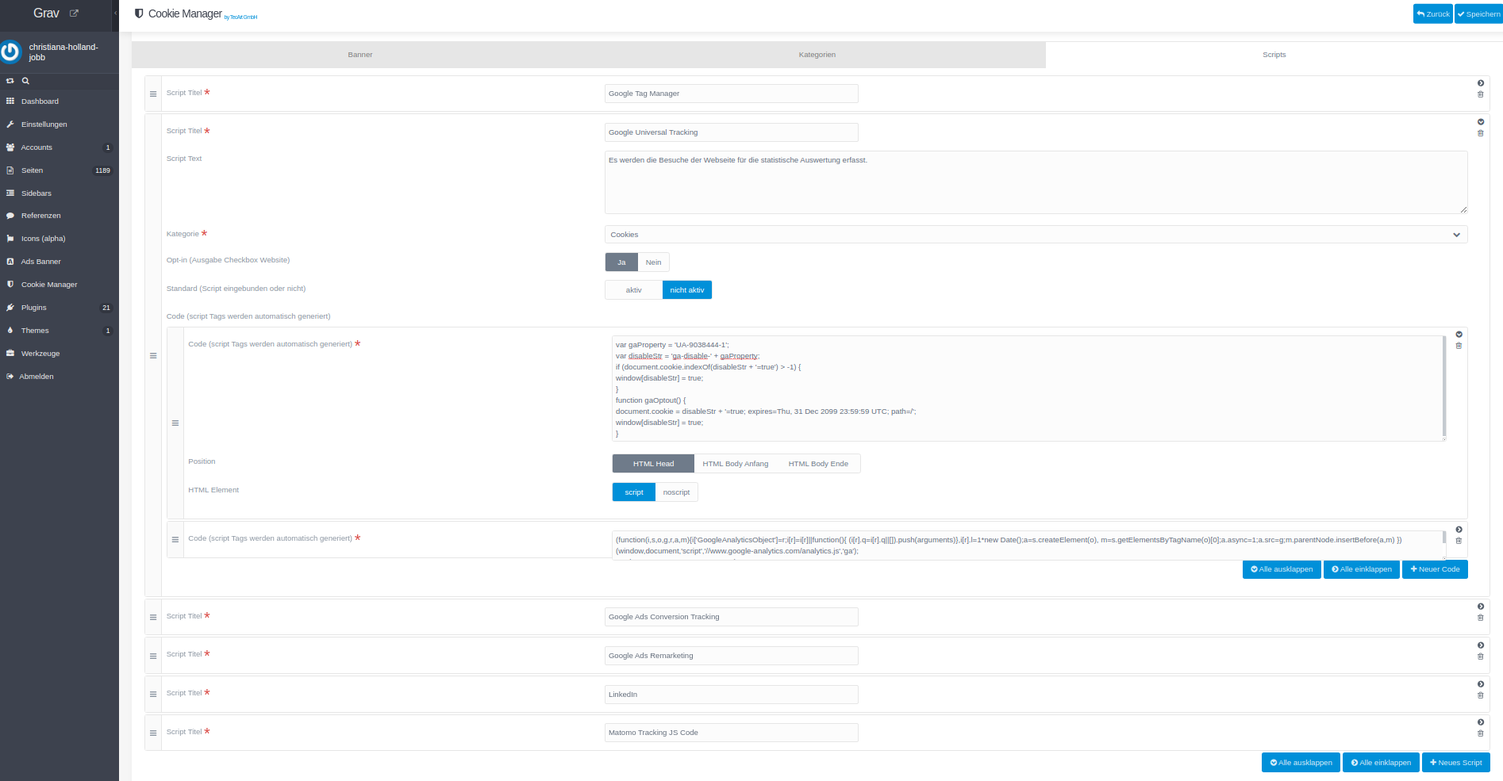
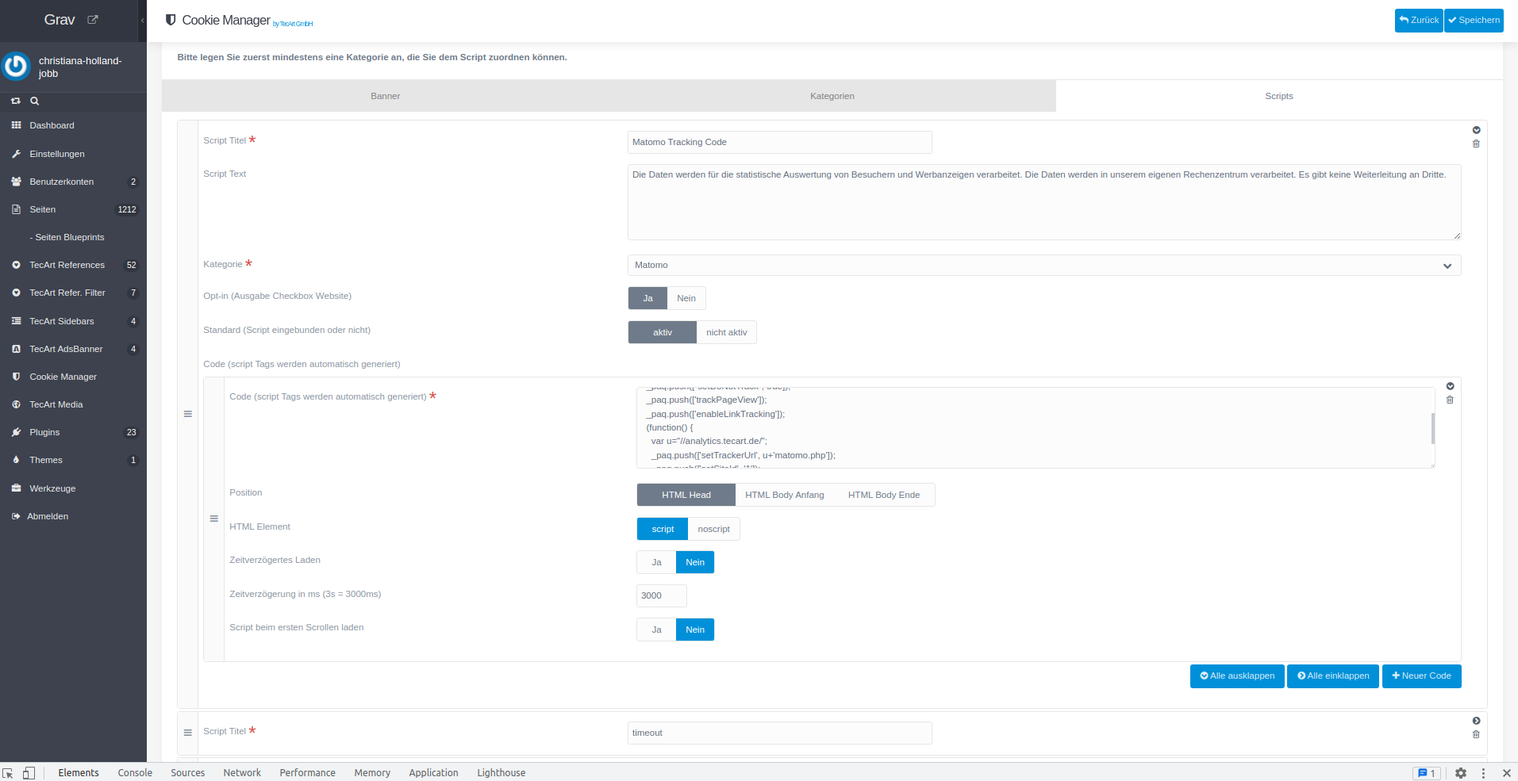
add include on scroll and/or include with delay option for scripts

diff --git a/assets/js/tecart-cookie-manager.min.js b/assets/js/tecart-cookie-manager.min.js
@@ -1,1 +1,1 @@
-class TecartCookieBanner{constructor(e,t,o,i){this.cookieBannerData=e,this.cookieBannerScripts=t,this.cookieBannerCategories=o,this.cookieBannerCategoriesData=i,null==this.cookieBannerScripts&&(this.cookieBannerScripts=[]),null==this.cookieBannerCategories&&(this.cookieBannerCategories=[]),null==this.cookieBannerCategoriesData&&(this.cookieBannerCategoriesData=[]),null==this.cookieConsentCategoriesArray&&(this.cookieConsentCategoriesArray=new Map),null==this.cookieConsentScriptsArray&&(this.cookieConsentScriptsArray=new Map),this.cookieConsent=this.getCookieByName("cookieconsent_status"),this.cookieConsentScripts=this.getCookieByName("cookieconsent_scripts"),this.cookieConsentCategories=this.getCookieByName("cookieconsent_categories")}init(){let e="";"activated"==this.getCookieBannerContent(this.cookieBannerData).buttonSettingsActive&&(e='<a aria-label="settings" role="button" tabIndex="0" class="button cc-btn cc-setting tcb-settings-btn '+this.getCookieBannerContent(this.cookieBannerData).buttonSettingsLayout+'" id="tcb-settings">'+this.getCookieBannerContent(this.cookieBannerData).settings+"</a>");let t="";"activated"==this.getCookieBannerContent(this.cookieBannerData).buttonDenyActive&&(t='<a aria-label="deny cookies" role="button" tabIndex="0" class="button cc-btn cc-deny '+this.getCookieBannerContent(this.cookieBannerData).buttonDenyLayout+'">'+this.getCookieBannerContent(this.cookieBannerData).deny+"</a>");const o={position:"bottom-left",type:"opt-in",palette:{popup:{background:"#f6f9fc",text:"#1e2022",border:"#1e2022"},button:{background:"#fff",text:"#5a5f69",border:"#5a5f69"}},layout:"tecart-cookie-banner",layouts:{"tecart-cookie-banner":'<div id="tecart-cookie-banner"><div class="cc-header">'+this.getCookieBannerContent(this.cookieBannerData).header+'</div><div id="cookieconsent:desc" class="cc-message">'+this.getCookieBannerContent(this.cookieBannerData).message+'</div><div class="cc-compliance cc-highlight"><a aria-label="allow cookies" role="button" tabIndex="0" class="button cc-btn cc-allow '+this.getCookieBannerContent(this.cookieBannerData).buttonAcceptLayout+'">'+this.getCookieBannerContent(this.cookieBannerData).allow+"</a>"+e+t+"</div></div>"},revokable:!0,animateRevokable:!0,revokeBtn:'<div class="cc-revoke cc-bottom cc-left cc-animate cc-revoke-from-plugin" style="color: '+this.getCookieBannerContent(this.cookieBannerData).buttonRevokableTextColor+"; background-color: "+this.getCookieBannerContent(this.cookieBannerData).buttonRevokableColor+"; border-color: "+this.getCookieBannerContent(this.cookieBannerData).buttonRevokableColor+';">'+this.getCookieBannerContent(this.cookieBannerData).revoke+"</div>",onStatusChange:function(e,t){const o=this.hasConsented(),i=new TecartCookieBanner(this.cookieBannerData,this.cookieBannerScripts,this.cookieBannerCategories);o?i.allowAllCookies():!1===o?i.denyAllCookies():i.allowSettingsCookies()},onRevokeChoice:function(e){}};window.cookieconsent.initialise(o),"dismiss"===this.cookieConsent?this.createScriptCode(this.cookieConsentScripts):(this.setCookieConsentCategoriesArray(),this.setCookieConsentScriptsArray()),this.removeSettingsModal(),this.createSettingsModal(this.cookieConsent)}allowAllCookies(){const e=this.cookieExpireDate();document.cookie="cookieconsent_status=allow;"+e+";path=/",console.log("All scripts for this website have been activated in this browser."),window.location.reload()}denyAllCookies(){this.deleteAllCookies(),this.removeCodeTags();const e=this.cookieExpireDate();document.cookie="cookieconsent_status=deny;"+e+";path=/",console.log("All scripts for this website have been deactivated in this browser."),window.location.reload()}allowSettingsCookies(){const e=this.cookieExpireDate();document.cookie="cookieconsent_status=dismiss;"+e+";path=/",console.log("All scripts for this website have set like in settings in this browser.")}setConsentCategoriesToCookie(e){e instanceof Map&&(e=Array.from(e));const t=this.cookieExpireDate(),o=JSON.stringify(e);document.cookie="cookieconsent_categories="+o+";"+t+";path=/"}setConsentScriptsToCookie(e){e instanceof Map&&(e=Array.from(e));const t=this.cookieExpireDate(),o=JSON.stringify(e);document.cookie="cookieconsent_scripts="+o+";"+t+";path=/"}cookieExpireDate(){const e=new Date;return e.setTime(e.getTime()+31536e6),"expires="+e.toUTCString()}deleteAllCookies(){const e=document.cookie.split("; ");for(let t=0;t<e.length;t++){const o=window.location.hostname.split(".");for(;o.length>0;){const i=encodeURIComponent(e[t].split(";")[0].split("=")[0])+"=; expires=Thu, 01-Jan-1970 00:00:01 GMT; domain="+o.join(".")+" ;path=",n=location.pathname.split("/");for(document.cookie=i+"/";n.length>0;)document.cookie=i+n.join("/"),n.pop();o.shift()}}window.localStorage.clear(),console.log("all cookies cleared")}getCookieByName(e){const t=document.cookie.match("(^|[^;]+)\\s*"+e+"\\s*=\\s*([^;]+)");return t?t.pop():""}deleteCookieByName(e){document.cookie=e+"=; Path=/; Expires=Thu, 01 Jan 1970 00:00:01 GMT;",console.log(e+" cookie deletetd")}setCookieConsentCategoriesArray(){let e;const t=this.cookieBannerCategories;if(t.length>0)for(let o=0;o<t.length;o++)"allow"===this.cookieConsent?(e=encodeURIComponent(t[o].category_title),this.cookieConsentCategoriesArray.set(e,{allowed:!0}),this.addScriptsFromAllowedCatToCookie(t[o].category_title)):"activated"===t[o].category_cookies&&(e=encodeURIComponent(t[o].category_title),this.cookieConsentCategoriesArray.set(e,{allowed:!0}),this.addScriptsFromAllowedCatToCookie(t[o].category_title));return this.setConsentCategoriesToCookie(this.cookieConsentCategoriesArray),this.cookieConsentCategoriesArray}setCookieConsentScriptsArray(){let e;const t=this.cookieBannerScripts;if(t.length>0)for(let o=0;o<t.length;o++)"allow"===this.cookieConsent?(e=encodeURIComponent(t[o].script_title),this.cookieConsentScriptsArray.set(e,{allowed:!0})):"activated"===t[o].script_cookies_standard&&(e=encodeURIComponent(t[o].script_title),this.cookieConsentScriptsArray.set(e,{allowed:!0}));this.setConsentScriptsToCookie(this.cookieConsentScriptsArray);const o=this.cookieConsentScriptsArray;this.createScriptCode(o)}addScriptsFromAllowedCatToCookie(e){const t=this.getElementByValue(this.cookieBannerScripts,"script_category",e);for(let e=0;e<t.length;e++){const o=encodeURIComponent(t[e].script_title);this.cookieConsentScriptsArray.set(o,{allowed:!0})}}createScriptCode(e){let t=[];null!==e&&(e instanceof Map&&(e=JSON.stringify(Array.from(e))),t=JSON.parse(e));const o=this.cookieBannerScripts;if(t.length>0&&o.length>0)for(let e=0;e<t.length;e++){const i=t[e][0],n=decodeURIComponent(i);if(o.length>0&&""!==n)for(let e=0;e<o.length;e++)if(o[e].script_title===n&&o[e].script_codes){const t=o[e].script_codes;for(let e=0;e<t.length;e++)this.createCodeTag(t[e],i,n)}}}createCodeTag(e,t,o){if(JSON.stringify(e).length>0){const i=e.code_title,n=e.code_position;let s="";"noscript"===e.code_tag?s=document.createElement("noscript"):(s=document.createElement("script")).setAttribute("type","text/javascript"),s.setAttribute("data-title",o.trim()),s.setAttribute("data-tcb",t),s.setAttribute("data-position",n),s.innerHTML=i.trim(),"head"===n?document.head.append(s):"body-top"===n?document.body.prepend(s):document.body.appendChild(s)}}removeCodeTagByTitle(e){if(""!==e){const t=document.querySelectorAll("[data-tcb]");for(const o in t)t.hasOwnProperty(o)&&t[o].getAttribute("data-tcb")===e&&t[o].remove()}}removeCodeTags(){const e=document.querySelectorAll("[data-tcb]");for(const t in e)e.hasOwnProperty(t)&&e[t].remove()}createSettingsModal(e=""){const t='<div id="tcb-settings-modal" class="tcb-settings-modal" style="display: none;"><div id="tcb-settings-close-btn">&times;</div><div class="tcb-settings-modal-header"><div class="cc-header">'+this.getCookieBannerContent(this.cookieBannerData).settingsTitle+'</div></div>\n<div class="tcb-settings-modal-content">'+this.createSettingsModalTabs(e)+"</div></div>";document.body.insertAdjacentHTML("beforeend",t)}removeSettingsModal(){const e=document.getElementById("tcb-settings-modal");null!==e&&e.remove()}createSettingsModalTabs(e=""){let t="",o="";const i=this.cookieBannerCategories;if(!(i.length>0))return this.getCookieBannerContent(this.cookieBannerData).settingsEmpty;for(let n=0;n<i.length;n++){this.cookieBannerScripts.length>0&&(o=this.createSettingsModalTabsScripts(i[n].category_title,e));const s=i[n].category_text?i[n].category_text:"",a=i[n].category_title?i[n].category_title:"",c=encodeURIComponent(a);let r="";"allow"===e?r="checked":this.cookieConsentCategories.length>0?!0===this.cookieConsentCategories.includes(c)&&(r="checked"):"activated"===i[n].category_cookies&&(r="checked");let l="";"activated"===i[n].category_cookies&&(l='<label class="tcb-switch tcb-categories-switch"><input type="checkbox" '+r+' id="cat_'+c+'" value="'+c+'"  name="tcbCookieCategories"  /><span class="tcb-slider tcb-round"></span></label>'),t+='<section id="section'+n+'"><input type="radio" name="sections" id="option'+n+'" '+(0===n?'checked=""':"")+' /><label for="option'+n+'">'+i[n].category_title+'</label><article><div class="tcb-tabs-cat-title"><p>'+a+"</p>"+l+"</div><p>"+s+"</p>"+o+"</article></section>"}let n="Save Settings";this.cookieBannerCategoriesData.categories_save_text&&(n=this.cookieBannerCategoriesData.categories_save_text);let s="layout-1";return this.cookieBannerCategoriesData.categories_save_layout&&(s=this.cookieBannerCategoriesData.categories_save_layout),'<div id="tcbSettings" class="tcb-catTabs">'+t+'</div><div class="tcb-saveSettings"><a id="tcb-save-settings-btn" aria-label="save settings" role="button" tabIndex="0" class="button cc-btn '+s+'">'+n+"</a></div>"}createSettingsModalTabsScripts(e="",t=""){let o="";if(""!==e&&this.cookieBannerScripts.length>0){const i=this.getElementByValue(this.cookieBannerScripts,"script_category",e);if(i.length>0){o+="<ul>";for(let e=0;e<i.length;e++){const n=i[e].script_title?i[e].script_title:"",s=encodeURIComponent(n);let a="";"allow"===t?a="checked":this.cookieConsentScripts.length>0?!0===this.cookieConsentScripts.includes(s)&&(a="checked"):"activated"===i[e].script_cookies_standard&&(a="checked");let c="",r="",l="tcbCookieScripts";"0"===i[e].script_cookies&&(c='disabled="disabled"',r="disabled",l="tcbDisabledCookieScripts"),o+='<li><div class="tcb-script-title">'+n+'</div><label class="tcb-switch tcb-script-switch '+r+'"><input type="checkbox" '+a+' id="script_'+s+'" value="'+s+'"  name="'+l+'" '+c+' /><span class="tcb-slider tcb-round"></span></label><div class="tcb-script-text">'+i[e].script_text+"</div></li>"}o+="</ul>"}}return o}onCheckboxSettings(){this.deleteCookieByName("cookieconsent_scripts"),this.deleteCookieByName("cookieconsent_categories"),this.deleteAllCookies();let e=[],t=[];if(this.cookieConsentScriptsArray=new Map,(e=Array.from(document.querySelectorAll("input[name=tcbCookieScripts]")).filter(e=>e.checked).map(e=>e.value)).length>0)for(let t=0;t<e.length;t++)this.cookieConsentScriptsArray.set(e[t],{allowed:!0});if((t=Array.from(document.querySelectorAll("input[name=tcbCookieCategories]")).filter(e=>e.checked).map(e=>e.value)).length>0)for(let e=0;e<t.length;e++)this.cookieConsentCategoriesArray.set(t[e],{allowed:!0}),this.addScriptsFromAllowedCatToCookie(decodeURIComponent(t[e]));this.setConsentCategoriesToCookie(this.cookieConsentCategoriesArray),this.setConsentScriptsToCookie(this.cookieConsentScriptsArray),this.allowSettingsCookies(),this.removeCodeTags();const o=this.cookieConsentScriptsArray;this.createScriptCode(o),window.location.reload()}getElementByValue(e,t,o){return e.filter(function(e){return e[t]===o})}getCookieBannerContent(e){const t={header:"Cookies used on the website!",allow:"Allow",deny:"Deny",denyActive:"activated",message:"This website uses cookies to ensure you get the best experience on our website.",settings:"Settings",settingsEmpty:"There are no settings available.",settingsActive:"activated",revoke:"Cookie Policy",buttonRevokableColor:"#7faf34",buttonRevokableTextColor:"#ffffff",settingsTitle:"Your personal settings"};return null!=e&&(e.banner_title&&(t.header=e.banner_title),e.button_deny_text&&(t.deny=e.button_deny_text),e.button_accept_text&&(t.allow=e.button_accept_text),e.banner_text&&(t.message=e.banner_text),e.button_settings_text&&(t.settings=e.button_settings_text),e.button_settings_empty&&(t.settingsEmpty=e.button_settings_empty),e.banner_revokable_text&&(t.revoke=e.banner_revokable_text),e.button_revokable_color&&(t.buttonRevokableColor=e.button_revokable_color),e.button_revokable_color&&(t.buttonRevokableTextColor=e.button_revokable_text_color),e.banner_cat_title&&(t.settingsTitle=e.banner_cat_title),t.buttonDenyLayout=e.button_deny_layout,t.buttonDenyActive=e.button_deny_active,t.buttonSettingsLayout=e.button_settings_layout,t.buttonSettingsActive=e.button_settings_active,t.buttonAcceptLayout=e.button_accept_layout),t}}
+class TecartCookieBanner{constructor(e,t,o,i){this.cookieBannerData=e,this.cookieBannerScripts=t,this.cookieBannerCategories=o,this.cookieBannerCategoriesData=i,null==this.cookieBannerScripts&&(this.cookieBannerScripts=[]),null==this.cookieBannerCategories&&(this.cookieBannerCategories=[]),null==this.cookieBannerCategoriesData&&(this.cookieBannerCategoriesData=[]),null==this.cookieConsentCategoriesArray&&(this.cookieConsentCategoriesArray=new Map),null==this.cookieConsentScriptsArray&&(this.cookieConsentScriptsArray=new Map),null==this.cookieConsentOnScrollScriptsArray&&(this.cookieConsentOnScrollScriptsArray=new Map),this.cookieConsent=this.getCookieByName("cookieconsent_status"),this.cookieConsentScripts=this.getCookieByName("cookieconsent_scripts"),this.cookieConsentCategories=this.getCookieByName("cookieconsent_categories"),this.cookieConsentOnScrollScripts=this.getCookieByName("cookieconsent_onscroll_scripts"),this.cookieConsentScrolled=this.getCookieByName("cookieconsent_scrolled")}init(){let e="";"activated"==this.getCookieBannerContent(this.cookieBannerData).buttonSettingsActive&&(e='<a aria-label="settings" role="button" tabIndex="0" class="button cc-btn cc-setting tcb-settings-btn '+this.getCookieBannerContent(this.cookieBannerData).buttonSettingsLayout+'" id="tcb-settings">'+this.getCookieBannerContent(this.cookieBannerData).settings+"</a>");let t="";"activated"==this.getCookieBannerContent(this.cookieBannerData).buttonDenyActive&&(t='<a aria-label="deny cookies" role="button" tabIndex="0" class="button cc-btn cc-deny '+this.getCookieBannerContent(this.cookieBannerData).buttonDenyLayout+'">'+this.getCookieBannerContent(this.cookieBannerData).deny+"</a>");const o={position:"bottom-left",type:"opt-in",palette:{popup:{background:"#f6f9fc",text:"#1e2022",border:"#1e2022"},button:{background:"#fff",text:"#5a5f69",border:"#5a5f69"}},layout:"tecart-cookie-banner",layouts:{"tecart-cookie-banner":'<div id="tecart-cookie-banner"><div class="cc-header">'+this.getCookieBannerContent(this.cookieBannerData).header+'</div><div id="cookieconsent:desc" class="cc-message">'+this.getCookieBannerContent(this.cookieBannerData).message+'</div><div class="cc-compliance cc-highlight"><a aria-label="allow cookies" role="button" tabIndex="0" class="button cc-btn cc-allow '+this.getCookieBannerContent(this.cookieBannerData).buttonAcceptLayout+'">'+this.getCookieBannerContent(this.cookieBannerData).allow+"</a>"+e+t+"</div></div>"},revokable:!0,animateRevokable:!0,revokeBtn:'<div class="cc-revoke cc-bottom cc-left cc-animate cc-revoke-from-plugin" style="color: '+this.getCookieBannerContent(this.cookieBannerData).buttonRevokableTextColor+"; background-color: "+this.getCookieBannerContent(this.cookieBannerData).buttonRevokableColor+"; border-color: "+this.getCookieBannerContent(this.cookieBannerData).buttonRevokableColor+';">'+this.getCookieBannerContent(this.cookieBannerData).revoke+"</div>",onStatusChange:function(e,t){const o=this.hasConsented(),i=new TecartCookieBanner(this.cookieBannerData,this.cookieBannerScripts,this.cookieBannerCategories);o?i.allowAllCookies():!1===o?i.denyAllCookies():i.allowSettingsCookies()},onRevokeChoice:function(e){}};window.cookieconsent.initialise(o),"dismiss"===this.cookieConsent?this.createScriptCode(this.cookieConsentScripts):(this.setCookieConsentCategoriesArray(),this.setCookieConsentScriptsArray()),this.removeSettingsModal(),this.createSettingsModal(this.cookieConsent)}allowAllCookies(){const e=this.cookieExpireDate();document.cookie="cookieconsent_status=allow;"+e+";path=/",console.log("All scripts for this website have been activated in this browser."),window.location.reload()}denyAllCookies(){this.deleteAllCookies(),this.removeCodeTags();const e=this.cookieExpireDate();document.cookie="cookieconsent_status=deny;"+e+";path=/",console.log("All scripts for this website have been deactivated in this browser."),window.location.reload()}allowSettingsCookies(){const e=this.cookieExpireDate();document.cookie="cookieconsent_status=dismiss;"+e+";path=/",console.log("All scripts for this website have set like in settings in this browser.")}setScrolledCookie(){const e=this.cookieExpireDate();document.cookie="cookieconsent_scrolled=scrolled;"+e+";path=/",console.log("Page was scrolled.")}setConsentCategoriesToCookie(e){e instanceof Map&&(e=Array.from(e));const t=this.cookieExpireDate(),o=JSON.stringify(e);document.cookie="cookieconsent_categories="+o+";"+t+";path=/"}setConsentScriptsToCookie(e){e instanceof Map&&(e=Array.from(e));const t=this.cookieExpireDate(),o=JSON.stringify(e);document.cookie="cookieconsent_scripts="+o+";"+t+";path=/"}setConsentOnScrollScriptsToCookie(e){e instanceof Map&&(e=Array.from(e));const t=this.cookieExpireDate(),o=JSON.stringify(e);document.cookie="cookieconsent_onscroll_scripts="+o+";"+t+";path=/"}cookieExpireDate(){const e=new Date;return e.setTime(e.getTime()+31536e6),"expires="+e.toUTCString()}deleteAllCookies(){const e=document.cookie.split("; ");for(let t=0;t<e.length;t++){const o=window.location.hostname.split(".");for(;o.length>0;){const i=encodeURIComponent(e[t].split(";")[0].split("=")[0])+"=; expires=Thu, 01-Jan-1970 00:00:01 GMT; domain="+o.join(".")+" ;path=",n=location.pathname.split("/");for(document.cookie=i+"/";n.length>0;)document.cookie=i+n.join("/"),n.pop();o.shift()}}window.localStorage.clear(),console.log("all cookies cleared")}getCookieByName(e){const t=document.cookie.match("(^|[^;]+)\\s*"+e+"\\s*=\\s*([^;]+)");return t?t.pop():""}deleteCookieByName(e){document.cookie=e+"=; Path=/; Expires=Thu, 01 Jan 1970 00:00:01 GMT;",console.log(e+" cookie deletetd")}setCookieConsentCategoriesArray(){let e;const t=this.cookieBannerCategories;if(t.length>0)for(let o=0;o<t.length;o++)"allow"===this.cookieConsent?(e=encodeURIComponent(t[o].category_title),this.cookieConsentCategoriesArray.set(e,{allowed:!0}),this.addScriptsFromAllowedCatToCookie(t[o].category_title)):"activated"===t[o].category_cookies&&(e=encodeURIComponent(t[o].category_title),this.cookieConsentCategoriesArray.set(e,{allowed:!0}),this.addScriptsFromAllowedCatToCookie(t[o].category_title));return this.setConsentCategoriesToCookie(this.cookieConsentCategoriesArray),this.cookieConsentCategoriesArray}setCookieConsentScriptsArray(){let e;const t=this.cookieBannerScripts;if(t.length>0)for(let o=0;o<t.length;o++)"allow"===this.cookieConsent?(e=encodeURIComponent(t[o].script_title),this.cookieConsentScriptsArray.set(e,{allowed:!0})):"activated"===t[o].script_cookies_standard&&(e=encodeURIComponent(t[o].script_title),this.cookieConsentScriptsArray.set(e,{allowed:!0}));this.setConsentScriptsToCookie(this.cookieConsentScriptsArray);const o=this.cookieConsentScriptsArray;this.createScriptCode(o)}addScriptsFromAllowedCatToCookie(e){const t=this.getElementByValue(this.cookieBannerScripts,"script_category",e);for(let e=0;e<t.length;e++){const o=encodeURIComponent(t[e].script_title);this.cookieConsentScriptsArray.set(o,{allowed:!0})}}createScriptCode(e){let t=[];null!==e&&(e instanceof Map&&(e=JSON.stringify(Array.from(e))),t=JSON.parse(e));const o=this.cookieBannerScripts;if(t.length>0&&o.length>0)for(let e=0;e<t.length;e++){const i=t[e][0],n=decodeURIComponent(i);if(o.length>0&&""!==n)for(let e=0;e<o.length;e++)if(o[e].script_title===n&&o[e].script_codes){const t=o[e].script_codes;for(let e=0;e<t.length;e++)this.createCodeTag(t[e],i,n)}}this.setConsentOnScrollScriptsToCookie(this.cookieConsentOnScrollScriptsArray)}createCodeTag(e,t,o){if(JSON.stringify(e).length>0){const i=e.code_title,n=e.code_position,s=e.code_tag,c=e.code_load_with_timeout,a=e.code_load_with_timeout_time,r=e.code_load_on_scroll;e.code_load_on_scroll_percent;let l="";if("noscript"===s?l=document.createElement("noscript"):(l=document.createElement("script")).setAttribute("type","text/javascript"),l.setAttribute("data-title",o.trim()),l.setAttribute("data-tcb",t),l.setAttribute("data-position",n),l.innerHTML=i.trim(),"scrolled"===this.cookieConsentScrolled){const e=this;"1"===c?setTimeout(function(){e.addScriptTagToDOM(n,l)},a):e.addScriptTagToDOM(n,l)}else if("1"===r)this.cookieConsentOnScrollScriptsArray.set(t,{allowed:!0});else if("1"===c&&"0"===r){const e=this;setTimeout(function(){e.addScriptTagToDOM(n,l)},a)}else this.addScriptTagToDOM(n,l)}}addScriptTagToDOM(e,t){"head"===e?document.head.append(t):"body-top"===e?document.body.prepend(t):document.body.appendChild(t)}removeCodeTagByTitle(e){if(""!==e){const t=document.querySelectorAll("[data-tcb]");for(const o in t)t.hasOwnProperty(o)&&t[o].getAttribute("data-tcb")===e&&t[o].remove()}}removeCodeTags(){const e=document.querySelectorAll("[data-tcb]");for(const t in e)e.hasOwnProperty(t)&&e[t].remove()}createSettingsModal(e=""){const t='<div id="tcb-settings-modal" class="tcb-settings-modal" style="display: none;"><div id="tcb-settings-close-btn">&times;</div><div class="tcb-settings-modal-header"><div class="cc-header">'+this.getCookieBannerContent(this.cookieBannerData).settingsTitle+'</div></div>\n<div class="tcb-settings-modal-content">'+this.createSettingsModalTabs(e)+"</div></div>";document.body.insertAdjacentHTML("beforeend",t)}removeSettingsModal(){const e=document.getElementById("tcb-settings-modal");null!==e&&e.remove()}createSettingsModalTabs(e=""){let t="",o="";const i=this.cookieBannerCategories;if(!(i.length>0))return this.getCookieBannerContent(this.cookieBannerData).settingsEmpty;for(let n=0;n<i.length;n++){this.cookieBannerScripts.length>0&&(o=this.createSettingsModalTabsScripts(i[n].category_title,e));const s=i[n].category_text?i[n].category_text:"",c=i[n].category_title?i[n].category_title:"",a=encodeURIComponent(c);let r="";"allow"===e?r="checked":this.cookieConsentCategories.length>0?!0===this.cookieConsentCategories.includes(a)&&(r="checked"):"activated"===i[n].category_cookies&&(r="checked");let l="";"activated"===i[n].category_cookies&&(l='<label class="tcb-switch tcb-categories-switch"><input type="checkbox" '+r+' id="cat_'+a+'" value="'+a+'"  name="tcbCookieCategories"  /><span class="tcb-slider tcb-round"></span></label>'),t+='<section id="section'+n+'"><input type="radio" name="sections" id="option'+n+'" '+(0===n?'checked=""':"")+' /><label for="option'+n+'">'+i[n].category_title+'</label><article><div class="tcb-tabs-cat-title"><p>'+c+"</p>"+l+"</div><p>"+s+"</p>"+o+"</article></section>"}let n="Save Settings";this.cookieBannerCategoriesData.categories_save_text&&(n=this.cookieBannerCategoriesData.categories_save_text);let s="layout-1";return this.cookieBannerCategoriesData.categories_save_layout&&(s=this.cookieBannerCategoriesData.categories_save_layout),'<div id="tcbSettings" class="tcb-catTabs">'+t+'</div><div class="tcb-saveSettings"><a id="tcb-save-settings-btn" aria-label="save settings" role="button" tabIndex="0" class="button cc-btn '+s+'">'+n+"</a></div>"}createSettingsModalTabsScripts(e="",t=""){let o="";if(""!==e&&this.cookieBannerScripts.length>0){const i=this.getElementByValue(this.cookieBannerScripts,"script_category",e);if(i.length>0){o+="<ul>";for(let e=0;e<i.length;e++){const n=i[e].script_title?i[e].script_title:"",s=encodeURIComponent(n);let c="";"allow"===t?c="checked":this.cookieConsentScripts.length>0?!0===this.cookieConsentScripts.includes(s)&&(c="checked"):"activated"===i[e].script_cookies_standard&&(c="checked");let a="",r="",l="tcbCookieScripts";"0"===i[e].script_cookies&&(a='disabled="disabled"',r="disabled",l="tcbDisabledCookieScripts"),o+='<li><div class="tcb-script-title">'+n+'</div><label class="tcb-switch tcb-script-switch '+r+'"><input type="checkbox" '+c+' id="script_'+s+'" value="'+s+'"  name="'+l+'" '+a+' /><span class="tcb-slider tcb-round"></span></label><div class="tcb-script-text">'+i[e].script_text+"</div></li>"}o+="</ul>"}}return o}onCheckboxSettings(){this.deleteCookieByName("cookieconsent_scripts"),this.deleteCookieByName("cookieconsent_categories"),this.deleteAllCookies();let e=[],t=[];if(this.cookieConsentScriptsArray=new Map,(e=Array.from(document.querySelectorAll("input[name=tcbCookieScripts]")).filter(e=>e.checked).map(e=>e.value)).length>0)for(let t=0;t<e.length;t++)this.cookieConsentScriptsArray.set(e[t],{allowed:!0});if((t=Array.from(document.querySelectorAll("input[name=tcbCookieCategories]")).filter(e=>e.checked).map(e=>e.value)).length>0)for(let e=0;e<t.length;e++)this.cookieConsentCategoriesArray.set(t[e],{allowed:!0}),this.addScriptsFromAllowedCatToCookie(decodeURIComponent(t[e]));this.setConsentOnScrollScriptsToCookie(this.cookieConsentOnScrollScriptsArray),this.cookieConsentOnScrollScripts=this.getCookieByName("cookieconsent_onscroll_scripts"),this.setConsentCategoriesToCookie(this.cookieConsentCategoriesArray),this.setConsentScriptsToCookie(this.cookieConsentScriptsArray),this.allowSettingsCookies(),this.removeCodeTags();const o=this.cookieConsentScriptsArray;this.createScriptCode(o),window.location.reload()}onScrollIncludes(){"scrolled"!==this.cookieConsentScrolled&&(this.cookieConsentScrolled="scrolled",this.cookieConsentOnScrollScripts=this.getCookieByName("cookieconsent_onscroll_scripts"),this.setScrolledCookie(),this.createScriptCode(this.cookieConsentOnScrollScripts))}getElementByValue(e,t,o){return e.filter(function(e){return e[t]===o})}getCookieBannerContent(e){const t={header:"Cookies used on the website!",allow:"Allow",deny:"Deny",denyActive:"activated",message:"This website uses cookies to ensure you get the best experience on our website.",settings:"Settings",settingsEmpty:"There are no settings available.",settingsActive:"activated",revoke:"Cookie Policy",buttonRevokableColor:"#7faf34",buttonRevokableTextColor:"#ffffff",settingsTitle:"Your personal settings"};return null!=e&&(e.banner_title&&(t.header=e.banner_title),e.button_deny_text&&(t.deny=e.button_deny_text),e.button_accept_text&&(t.allow=e.button_accept_text),e.banner_text&&(t.message=e.banner_text),e.button_settings_text&&(t.settings=e.button_settings_text),e.button_settings_empty&&(t.settingsEmpty=e.button_settings_empty),e.banner_revokable_text&&(t.revoke=e.banner_revokable_text),e.button_revokable_color&&(t.buttonRevokableColor=e.button_revokable_color),e.button_revokable_color&&(t.buttonRevokableTextColor=e.button_revokable_text_color),e.banner_cat_title&&(t.settingsTitle=e.banner_cat_title),t.buttonDenyLayout=e.button_deny_layout,t.buttonDenyActive=e.button_deny_active,t.buttonSettingsLayout=e.button_settings_layout,t.buttonSettingsActive=e.button_settings_active,t.buttonAcceptLayout=e.button_accept_layout),t}}

diff --git a/assets/js/tecart-cookie-manager.js b/assets/js/tecart-cookie-manager.js
@@ -17,12 +17,19 @@ class TecartCookieBanner{
         if(this.cookieConsentCategoriesArray == null){  this.cookieConsentCategoriesArray = new Map(); }
         // JSON array with scripts for cookie cookieConsentScripts
         if(this.cookieConsentScriptsArray == null){  this.cookieConsentScriptsArray = new Map(); }
+        // JSON array with scripts for cookie cookieConsentScripts
+        if(this.cookieConsentOnScrollScriptsArray == null){ this.cookieConsentOnScrollScriptsArray = new Map(); }
+
         // Reading "cookieconsent_status" cookie
         this.cookieConsent = this.getCookieByName('cookieconsent_status');
         // Cookie for choosen output scripts to set active or not active
         this.cookieConsentScripts = this.getCookieByName('cookieconsent_scripts');
         // Cookie for choosen output categories to set active or not active
         this.cookieConsentCategories = this.getCookieByName('cookieconsent_categories');
+        // Cookie for include on scroll scripts
+        this.cookieConsentOnScrollScripts = this.getCookieByName('cookieconsent_onscroll_scripts');
+        // Cookie for knowing that page is scrolled
+        this.cookieConsentScrolled = this.getCookieByName('cookieconsent_scrolled');
     }
 
     init(){
@@ -30,7 +37,7 @@ class TecartCookieBanner{
         // Button settings
         let buttonSettings = '';
         if(this.getCookieBannerContent(this.cookieBannerData).buttonSettingsActive == 'activated'){
-           buttonSettings = '<a aria-label="settings" role="button" tabIndex="0" class="button cc-btn cc-setting tcb-settings-btn '+this.getCookieBannerContent(this.cookieBannerData).buttonSettingsLayout+'" id="tcb-settings">'+this.getCookieBannerContent(this.cookieBannerData).settings+'</a>';
+            buttonSettings = '<a aria-label="settings" role="button" tabIndex="0" class="button cc-btn cc-setting tcb-settings-btn '+this.getCookieBannerContent(this.cookieBannerData).buttonSettingsLayout+'" id="tcb-settings">'+this.getCookieBannerContent(this.cookieBannerData).settings+'</a>';
         }
 
         // Button deny
@@ -99,7 +106,6 @@ class TecartCookieBanner{
             this.setCookieConsentCategoriesArray();
             //get initial plugin script settings - just activated values from yaml
             this.setCookieConsentScriptsArray();
-
         }
         //remove if exists to update items
         this.removeSettingsModal();
@@ -108,7 +114,7 @@ class TecartCookieBanner{
     }
 
     /**
-     * Will allow all Cookies and set cookieconsent_status cookie to deny
+     * Will allow all Cookies and set cookieconsent_status cookie to allow
      */
     allowAllCookies() {
         //Set allow cookie
@@ -144,6 +150,16 @@ class TecartCookieBanner{
     }
 
     /**
+     * Will set cookieconsent_status cookie to settings
+     */
+    setScrolledCookie() {
+        //Set allow cookie
+        const expires = this.cookieExpireDate();
+        document.cookie = 'cookieconsent_scrolled=scrolled;' + expires + ';path=/';
+        console.log('Page was scrolled.');
+    }
+
+    /**
      * Push the allowed categories as json string to cookie
      */
     setConsentCategoriesToCookie(cookieConsentCategoriesArray) {
@@ -165,6 +181,18 @@ class TecartCookieBanner{
         const expires = this.cookieExpireDate();
         const json_string = JSON.stringify(cookieConsentScriptsArray);
         document.cookie = 'cookieconsent_scripts=' + json_string + ';' + expires + ';path=/';
+    }
+
+    /**
+     * Push the on scroll include scripts as json string to cookie
+     */
+    setConsentOnScrollScriptsToCookie(cookieConsentOnScrollScriptsArray) {
+        if(cookieConsentOnScrollScriptsArray instanceof Map){
+            cookieConsentOnScrollScriptsArray = Array.from(cookieConsentOnScrollScriptsArray);
+        }
+        const expires = this.cookieExpireDate();
+        const json_string = JSON.stringify(cookieConsentOnScrollScriptsArray);
+        document.cookie = 'cookieconsent_onscroll_scripts=' + json_string + ';' + expires + ';path=/';
     }
 
     /**
@@ -331,6 +359,7 @@ class TecartCookieBanner{
                 }
             }
         }
+        this.setConsentOnScrollScriptsToCookie(this.cookieConsentOnScrollScriptsArray);
     }
 
     /**
@@ -345,9 +374,13 @@ class TecartCookieBanner{
 
         if(code.length > 0){
 
-            const codeContent = data.code_title;
-            const codePos = data.code_position;
-            const codeTag = data.code_tag;
+            const codeContent             = data.code_title;
+            const codePos                 = data.code_position;
+            const codeTag                 = data.code_tag;
+            const codeLoadTimeout         = data.code_load_with_timeout;
+            const codeLoadTimeoutTime     = data.code_load_with_timeout_time;
+            const codeLoadOnScroll        = data.code_load_on_scroll;
+            const codeLoadOnScrollPercent = data.code_load_on_scroll_percent;
 
             let codeItem = "";
 
@@ -375,30 +408,72 @@ class TecartCookieBanner{
             // inner tag code
             codeItem.innerHTML = codeContent.trim();
 
-            //add script to head tag
-            if(codePos === 'head'){
-                // insertAdjacentHTML with script does not execute script after include
-                // document.head.insertAdjacentHTML('beforeend', codeItem);
-                document.head.append(codeItem);
+            if(this.cookieConsentScrolled === 'scrolled'){
+                // aliasing to avoid Uncaught TypeError: this.addScriptTagToDOM is not a function while nested call
+                const self = this;
+                if(codeLoadTimeout === '1'){
+                    // Delay some seconds in loading function
+                    setTimeout(function() {
+                        // bind self to avoid Uncaught TypeError: this.addScriptTagToDOM is not a function while nested call
+                        self.addScriptTagToDOM(codePos, codeItem);
+                    }, codeLoadTimeoutTime);
+                }
+                else{
+                    self.addScriptTagToDOM(codePos, codeItem);
+                }
             }
-            //add script to body at the beginning
-            else if(codePos === 'body-top'){
-                // insertAdjacentHTML with script does not execute script after include
-                // document.body.insertAdjacentHTML('afterbegin', codeItem);
-                document.body.prepend(codeItem);
+            else{
+                // load script after scroll must be called on load again so save scroll scripts in cookie
+                if(codeLoadOnScroll === '1'){
+                    this.cookieConsentOnScrollScriptsArray.set(scriptTitleEncoded,{"allowed":true});
+                }
+                // load script after timeout without scroll
+                else if(codeLoadTimeout === '1' && codeLoadOnScroll === '0'){
+                    // aliasing to avoid Uncaught TypeError: this.addScriptTagToDOM is not a function while nested call
+                    const self = this;
+                    // Delay some seconds in loading function
+                    setTimeout(function() {
+                        // bind to avoid Uncaught TypeError: this.addScriptTagToDOM is not a function while nested call
+                        self.addScriptTagToDOM(codePos, codeItem);
+                    }, codeLoadTimeoutTime);
+                }
+                else{
+                    this.addScriptTagToDOM(codePos, codeItem);
+                }
             }
-            //add script to body at the end
-            else {
-                // insertAdjacentHTML with script does not execute script after include
-                // document.body.insertAdjacentHTML('beforeend', codeItem);
-                //const head = document.getElementsByTagName('body')[0];
-                document.body.appendChild(codeItem);
-            }
+
+
         }
     }
 
     /**
-     * remove tags with given data-title     *
+     * add script tags to DOM
+     */
+    addScriptTagToDOM(codePos, codeItem) {
+
+        //add script to head tag
+        if(codePos === 'head'){
+            // insertAdjacentHTML with script does not execute script after include
+            // document.head.insertAdjacentHTML('beforeend', codeItem);
+            document.head.append(codeItem);
+        }
+        //add script to body at the beginning
+        else if(codePos === 'body-top'){
+            // insertAdjacentHTML with script does not execute script after include
+            // document.body.insertAdjacentHTML('afterbegin', codeItem);
+            document.body.prepend(codeItem);
+        }
+        //add script to body at the end
+        else {
+            // insertAdjacentHTML with script does not execute script after include
+            // document.body.insertAdjacentHTML('beforeend', codeItem);
+            //const head = document.getElementsByTagName('body')[0];
+            document.body.appendChild(codeItem);
+        }
+    }
+
+    /**
+     * remove tags with given data-title
      */
     removeCodeTagByTitle(dataTitle) {
 
@@ -506,9 +581,9 @@ class TecartCookieBanner{
                 let cat_toggler = '';
                 if (json_data[i].category_cookies === 'activated') {
                     cat_toggler = '<label class="tcb-switch tcb-categories-switch">' +
-                                    '<input type="checkbox" '+activated+' id="cat_'+catTitleEncoded+'" value="'+catTitleEncoded+'"  name="tcbCookieCategories"  />' +
-                                    '<span class="tcb-slider tcb-round"></span>' +
-                                  '</label>';
+                        '<input type="checkbox" '+activated+' id="cat_'+catTitleEncoded+'" value="'+catTitleEncoded+'"  name="tcbCookieCategories"  />' +
+                        '<span class="tcb-slider tcb-round"></span>' +
+                        '</label>';
                 }
 
                 //set checked tab
@@ -652,8 +727,10 @@ class TecartCookieBanner{
                 this.cookieConsentCategoriesArray.set(selectedCats[i],{allowed:true});
                 this.addScriptsFromAllowedCatToCookie(decodeURIComponent(selectedCats[i]));
             }
-
         }
+
+        this.setConsentOnScrollScriptsToCookie(this.cookieConsentOnScrollScriptsArray);
+        this.cookieConsentOnScrollScripts = this.getCookieByName('cookieconsent_onscroll_scripts');
 
         //fill cookies with data
         this.setConsentCategoriesToCookie(this.cookieConsentCategoriesArray);
@@ -670,6 +747,20 @@ class TecartCookieBanner{
         this.createScriptCode(data);
 
         window.location.reload();
+    }
+
+    /**
+     * checkboxes selected
+     */
+    onScrollIncludes() {
+
+        if(this.cookieConsentScrolled !== 'scrolled'){
+            this.cookieConsentScrolled = 'scrolled';
+            this.cookieConsentOnScrollScripts = this.getCookieByName('cookieconsent_onscroll_scripts');
+            //set cookie cookieconsent_status to dismiss
+            this.setScrolledCookie();
+            this.createScriptCode(this.cookieConsentOnScrollScripts);
+        }
     }
 
     /**

diff --git a/tecart-cookie-manager.php b/tecart-cookie-manager.php
@@ -158,24 +158,23 @@ class TecartCookieManagerPlugin extends Plugin {
             $cookieBannerCategories = CookieConsent::getYamlDataByType('cookie-manager-categories');
 
             // Add plugin CSS files to the grav assets.
-            $assets->addCss($this->assetsPath . $this->cookieConsentCSS);
-            $assets->addCss($this->assetsPath . $this->customCSS);
+            $assets->addCss($this->assetsPath . $this->cookieConsentCSS, array('rel' => 'preload'));
+            $assets->addCss($this->assetsPath . $this->customCSS, array('rel' => 'preload'));
 
             // Add plugin JS files to the grav assets.
-            $assets->addJs($this->assetsPath . $this->cookieConsentJS, array('group' => 'bottom'));
-            $assets->addJs($this->assetsPath . $this->customJS, array('group' => 'bottom'));
+            $assets->addJs($this->assetsPath . $this->cookieConsentJS, array('loading' => 'async'));
+            $assets->addJs($this->assetsPath . $this->customJS, array('loading' => 'async'));
 
             // Add inline JS to bottom of page to initialize cookie banner
             $assets->addInlineJs(
-                $twig->twig->render(
-                    $this->initTemplate,
-                    [
-                        'config' => $pluginConfig,
-                        'cookieBannerData' => $cookieBannerData,
-                        'cookieBannerScripts' => $cookieBannerScripts,
-                        'cookieBannerCategories' => $cookieBannerCategories,
-                    ]),
-                    array('group' => 'bottom')
+              $twig->twig->render(
+                $this->initTemplate,
+                [
+                  'config' => $pluginConfig,
+                  'cookieBannerData' => $cookieBannerData,
+                  'cookieBannerScripts' => $cookieBannerScripts,
+                  'cookieBannerCategories' => $cookieBannerCategories,
+                ])
             );
         }
     }

diff --git a/README.md b/README.md
@@ -23,6 +23,7 @@ The Plugin requires the use of the Grav the admin plugin.
 - admin setting opt-in: yes/no means, if opt-in toggle is available for users on website cookie banner
 - admin setting default active/not active means, if script is included in website
 - there is an option to set the script position (body-top, body-bottom, head-bottom)
+- there is an option to include the script after first scroll of page and/or a timeout/delay
 - you can override styles in your own css
 
 **Note**

diff --git a/CHANGELOG.md b/CHANGELOG.md
@@ -1,3 +1,9 @@
+# v0.1.4
+##  12/2021
+1. [](#new)
+* add "include on scroll" and/or "include with delay" option for scripts
+* modify assets include in onTwigSiteVariables()
+    
 # v0.1.3
 ##  08/2021
 [](#improved)
